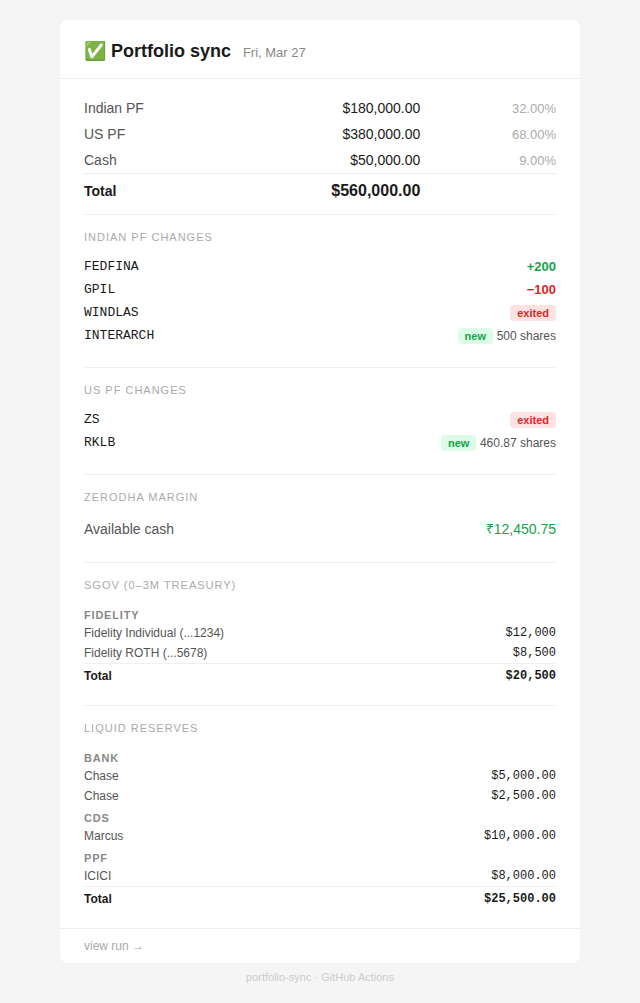
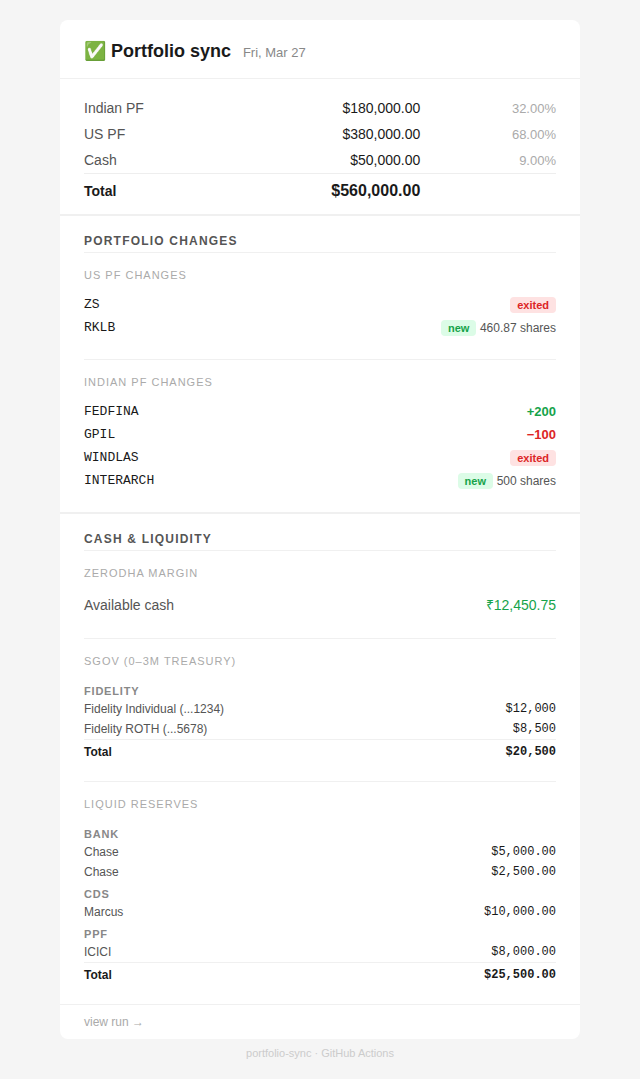
feat: restructure email into Portfolio Changes and Cash & Liquidity sections
- Add group header dividers for Portfolio Changes and Cash & Liquidity
- Reorder sections: US PF Changes → Indian PF Changes → Zerodha Margin → SGOV → Liquid Reserves
- Regenerate email_sample.html and preview screenshot

diff --git a/email_sample.html b/email_sample.html
@@ -33,6 +33,16 @@
         </tr>
       </table>
     </div>
+    <div style="padding:16px 24px 4px;border-top:2px solid #f0f0f0;">
+      <span style="font-size:12px;font-weight:700;text-transform:uppercase;letter-spacing:1.2px;color:#555;">Portfolio Changes</span>
+    </div>
+    <div style="padding:0 24px 20px;">
+      <div style="color:#aaa;font-size:11px;text-transform:uppercase;letter-spacing:1px;margin-bottom:12px;border-top:1px solid #f0f0f0;padding-top:16px;">US PF changes</div>
+      <table style="width:100%;border-collapse:collapse;">
+      <tr><td style="padding:4px 0;font-family:monospace;font-size:13px;width:55%;">ZS</td><td style="padding:4px 0;font-size:13px;text-align:right;"><span style="background:#fee2e2;color:#dc2626;font-size:11px;padding:2px 7px;border-radius:4px;font-weight:600;">exited</span></td></tr>
+      <tr><td style="padding:4px 0;font-family:monospace;font-size:13px;width:55%;">RKLB</td><td style="padding:4px 0;font-size:13px;text-align:right;"><span style="background:#dcfce7;color:#16a34a;font-size:11px;padding:2px 7px;border-radius:4px;font-weight:600;">new</span> <span style="color:#555;font-size:12px;">460.87 shares</span></td></tr>
+      </table>
+    </div>
     <div style="padding:0 24px 20px;">
       <div style="color:#aaa;font-size:11px;text-transform:uppercase;letter-spacing:1px;margin-bottom:12px;border-top:1px solid #f0f0f0;padding-top:16px;">Indian PF changes</div>
       <table style="width:100%;border-collapse:collapse;">
@@ -42,12 +52,8 @@
       <tr><td style="padding:4px 0;font-family:monospace;font-size:13px;width:55%;">INTERARCH</td><td style="padding:4px 0;font-size:13px;text-align:right;"><span style="background:#dcfce7;color:#16a34a;font-size:11px;padding:2px 7px;border-radius:4px;font-weight:600;">new</span> <span style="color:#555;font-size:12px;">500 shares</span></td></tr>
       </table>
     </div>
-    <div style="padding:0 24px 20px;">
-      <div style="color:#aaa;font-size:11px;text-transform:uppercase;letter-spacing:1px;margin-bottom:12px;border-top:1px solid #f0f0f0;padding-top:16px;">US PF changes</div>
-      <table style="width:100%;border-collapse:collapse;">
-      <tr><td style="padding:4px 0;font-family:monospace;font-size:13px;width:55%;">ZS</td><td style="padding:4px 0;font-size:13px;text-align:right;"><span style="background:#fee2e2;color:#dc2626;font-size:11px;padding:2px 7px;border-radius:4px;font-weight:600;">exited</span></td></tr>
-      <tr><td style="padding:4px 0;font-family:monospace;font-size:13px;width:55%;">RKLB</td><td style="padding:4px 0;font-size:13px;text-align:right;"><span style="background:#dcfce7;color:#16a34a;font-size:11px;padding:2px 7px;border-radius:4px;font-weight:600;">new</span> <span style="color:#555;font-size:12px;">460.87 shares</span></td></tr>
-      </table>
+    <div style="padding:16px 24px 4px;border-top:2px solid #f0f0f0;">
+      <span style="font-size:12px;font-weight:700;text-transform:uppercase;letter-spacing:1.2px;color:#555;">Cash & Liquidity</span>
     </div>
     <div style="padding:0 24px 20px;">
       <div style="color:#aaa;font-size:11px;text-transform:uppercase;letter-spacing:1px;margin-bottom:12px;border-top:1px solid #f0f0f0;padding-top:16px;">Zerodha Margin</div>

diff --git a/format_email.py b/format_email.py
@@ -124,6 +124,13 @@ def _sgov_row(name, value_html):
             f'</tr>')
 
 
+def _group_header(title):
+    return (f'\n    <div style="padding:16px 24px 4px;border-top:2px solid #f0f0f0;">'
+            f'\n      <span style="font-size:12px;font-weight:700;text-transform:uppercase;'
+            f'letter-spacing:1.2px;color:#555;">{title}</span>'
+            f'\n    </div>')
+
+
 def _changes_section(title, rows_html):
     return (f'\n    <div style="padding:0 24px 20px;">'
             f'\n      <div style="color:#aaa;font-size:11px;text-transform:uppercase;letter-spacing:1px;'
@@ -280,7 +287,7 @@ def build_html(data: dict) -> str:
       <span style="font-size:18px;font-weight:600;">{emoji} Portfolio sync</span>
       <span style="color:#888;margin-left:8px;font-size:13px;">{date_str}</span>
       {f'<div style="margin-top:8px;font-size:26px;font-weight:700;letter-spacing:-0.5px;">{data["net_worth"]}<span style="font-size:13px;font-weight:400;color:#888;margin-left:6px;">net worth</span></div>' if data["net_worth"] else ""}
-    </div>{warning_html}{summary_html}{indian_section}{us_section}{margin_section}{sgov_section}{ef_section}{footer_html}
+    </div>{warning_html}{summary_html}{_group_header("Portfolio Changes") if us_section or indian_section else ""}{us_section}{indian_section}{_group_header("Cash & Liquidity") if margin_section or sgov_section or ef_section else ""}{margin_section}{sgov_section}{ef_section}{footer_html}
   </div>
   <p style="text-align:center;color:#ccc;font-size:11px;margin-top:8px;">portfolio-sync · GitHub Actions</p>
 </div>
